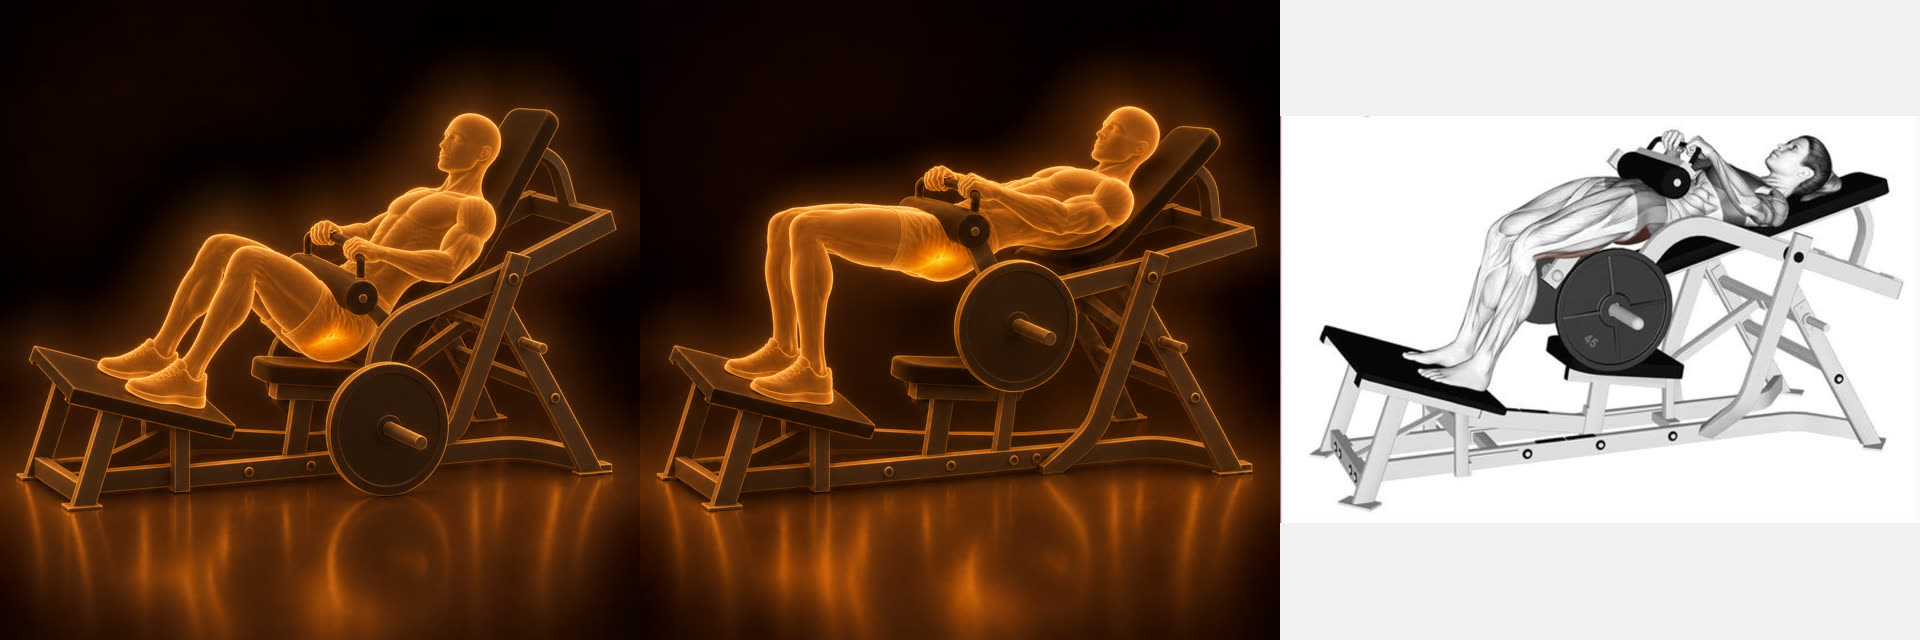
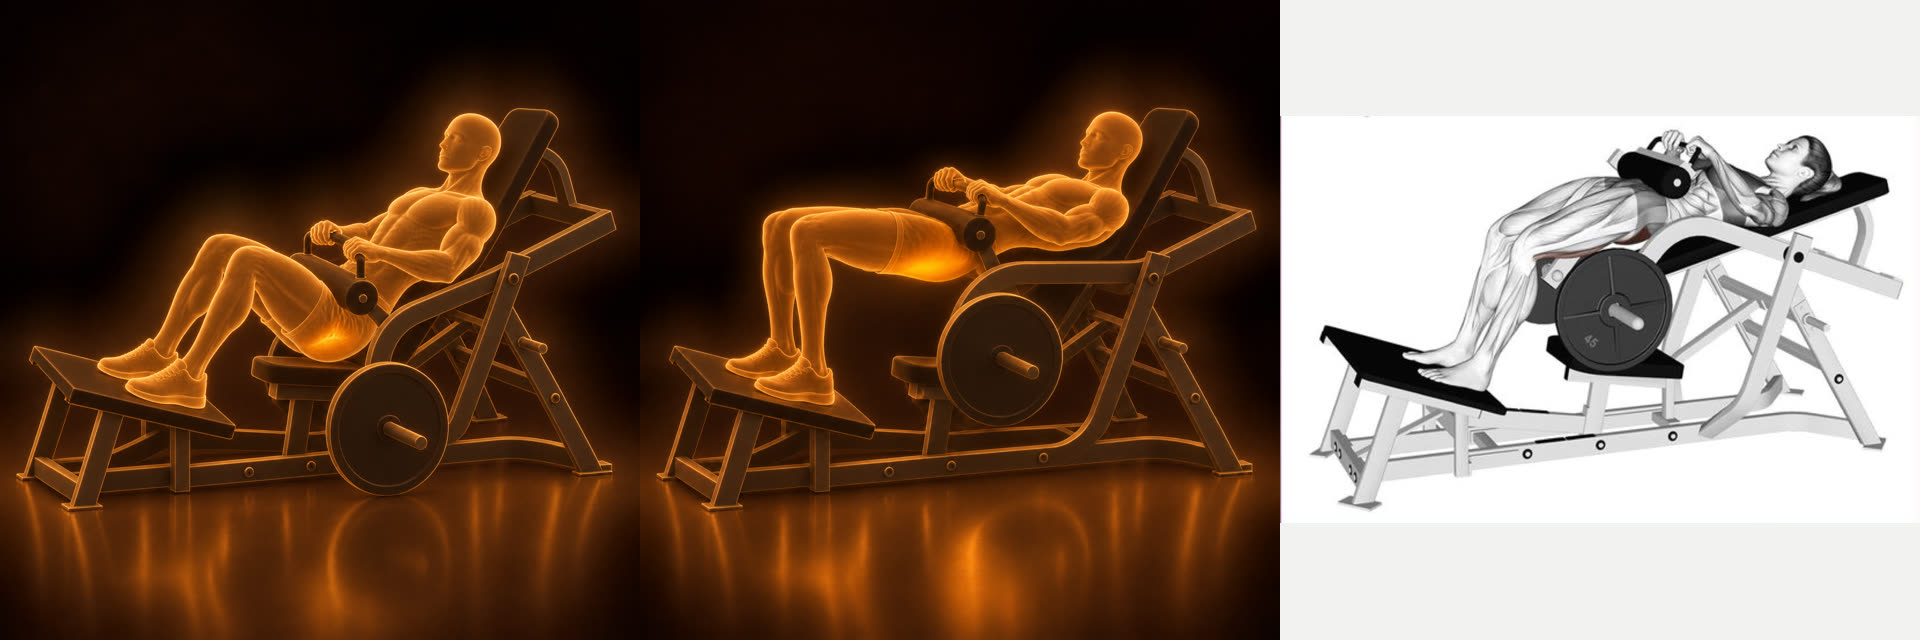
x166 x160 end frames redone - frame 1 orientation kept, full range (2 credits); skill: frame 1 sets the orientation, the end is the full range - waiting for Asaf, not in dev

Changed region(s): [[0.375, 0.1562, 0.6562, 1.0], [0.4062, 0.8438, 0.4375, 0.875]]

diff --git a/.claude/skills/exercise-animation/SKILL.md b/.claude/skills/exercise-animation/SKILL.md
@@ -138,6 +138,8 @@ description: בניית אנימציה של תרגיל אחד למאגר (exerci
    3. **MOVEMENT & ENDING FRAME POSITION:** מצב כל מפרק בסוף, ומה דינמי ומה נעול, במפורש. למשל: "Knees fully extended and locked, torso static, only the ankles move".
       - **יציבות פנימית מול תנועה במרחב:** "static" פירושו שהמבנה לא משתנה, לא שהמיקום קבוע. כשהמפרק הפעיל מרים את הגוף (קרסול בהרמת עקבים, ברכיים בקפיצה), כל פלג הגוף העליון, הראש והמשקולות עולים כיחידה אחת קשיחה במישור האנכי, בדיוק בגובה שהמפרק עלה: "the entire upper body, torso, head, arms and dumbbells shift strictly UPWARD along the vertical Y-axis as ONE RIGID UNIT by about N% of the image height". נמדד בבדיקות (ראש מול קרסול).
       - **פריים הסוף הוא תמיד עריכה ישירה של פריים ההתחלה המאושר** - לא יצירה חדשה ולא זוג פאנלים - כדי שהרקע, המצלמה והציוד יהיו זהים.
+      - **פריים 1 קובע את הכיוון (אסף, 13.11, x166):** כיוון הדמות, צד המכונה וצד הרגל או היד העובדת זהים לפריים 1, גם כשהרפרנס הפוך. בהנחיה: "same ORIENTATION ... nothing mirrored", ו-Image 2 "ONLY for the angle ... ignore its direction"; ב-AVOID: mirrored image, flipped figure, machine on the other side. בבדיקה משווים את צד המכונה בשני הפריימים.
+      - **טווח מלא (אסף, 13.11, x160):** הסוף הוא קצה התנועה שברפרנס, לא אמצע הדרך, וגם לא מעבר לו (x166: הרגל עלתה גבוה מהרפרנס). כותבים את היעד במספר או בגובה מול חלק אחר בגוף ("the waist at the same height as the knees", "the foot at about the height of the supporting knee"), וב-AVOID: partial range of motion. בבדיקה משווים את קו הגוף לרפרנס.
       - **רפרנס כפול בכל קרדיט, בלי יוצא מן הכלל (אסף, 12.11):** כל יצירה, עריכה ותיקון מצרפים את חיתוך התנוחה מהרפרנס שלו - תנוחת ההתחלה לפריים 1, תנוחת הסוף לפריים 2 ולכל תיקון שלו - ואת העוגן `CANONICAL-x106-start.png` (job `6a142118-…`). התמונה שעורכים היא תמונה 1, חיתוך התנוחה תמונה 2, העוגן תמונה 3, ובהנחיה: "Image 2 ONLY for the pose of the moving parts; Image 3 ONLY for the head, material and light". עריכה בלי חיתוך התנוחה שלו לא נשלחת (x265: תיקון בלי הרפרנס, מפריים 1, הרס את התנוחה, הראש והתאורה). **חוץ מתיקון של לבוש או חומר שהועתק מהרפרנס** (מכנס, צבע עור): אז מצרפים רק את הפריים שמתקנים ואת העוגן - הרפרנס הוא מה שמשך את הפגם (אסף, 12.11, x267: גזרת הבוקסר הקצר).
       - **תיקון נקודתי (אסף, 12.11):** פריים 2 שתקין בגוף, בתנוחה, במכונה ובתאורה, ויש בו פגם מקומי אחד (יד או חבל שמסתירים את הפנים, אחיזה, כבל) - **עורכים את פריים 2 הזה עצמו**: "keep 100% of the image, move only the [hand / rope] to match Image 2". לא חוזרים לפריים 1 ולא מייצרים מחדש - זה מאבד את מה שכבר היה טוב.
       - **תרגיל על אלמנט** (מדרגה, ספסל, ספה): האם האיבר שוקע מתחת למישור האלמנט. למשל: "Heels dropped low below the step plane".
